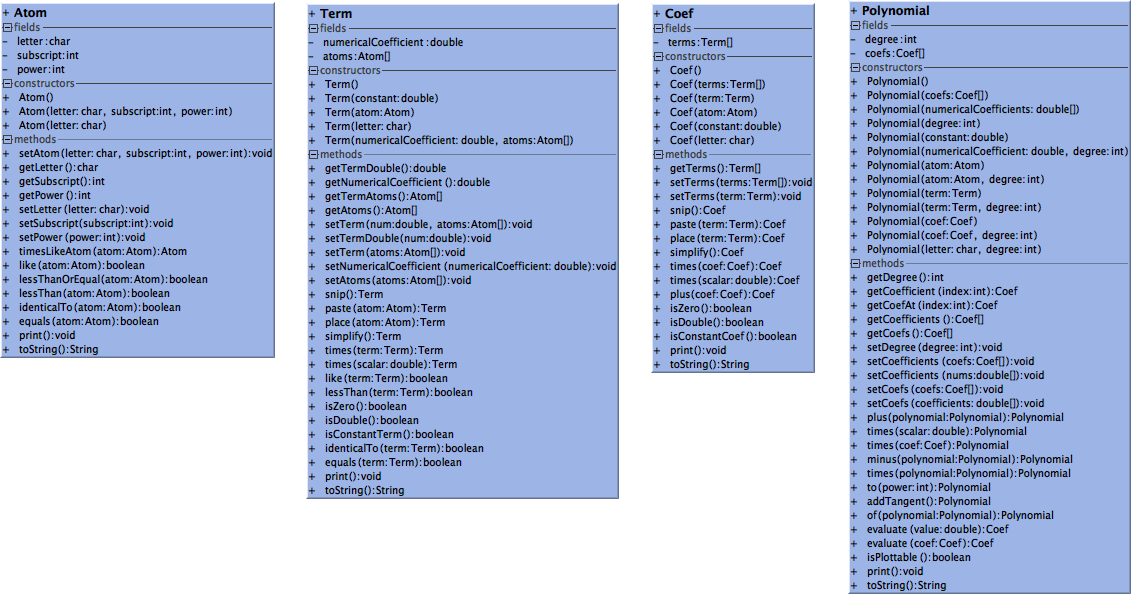
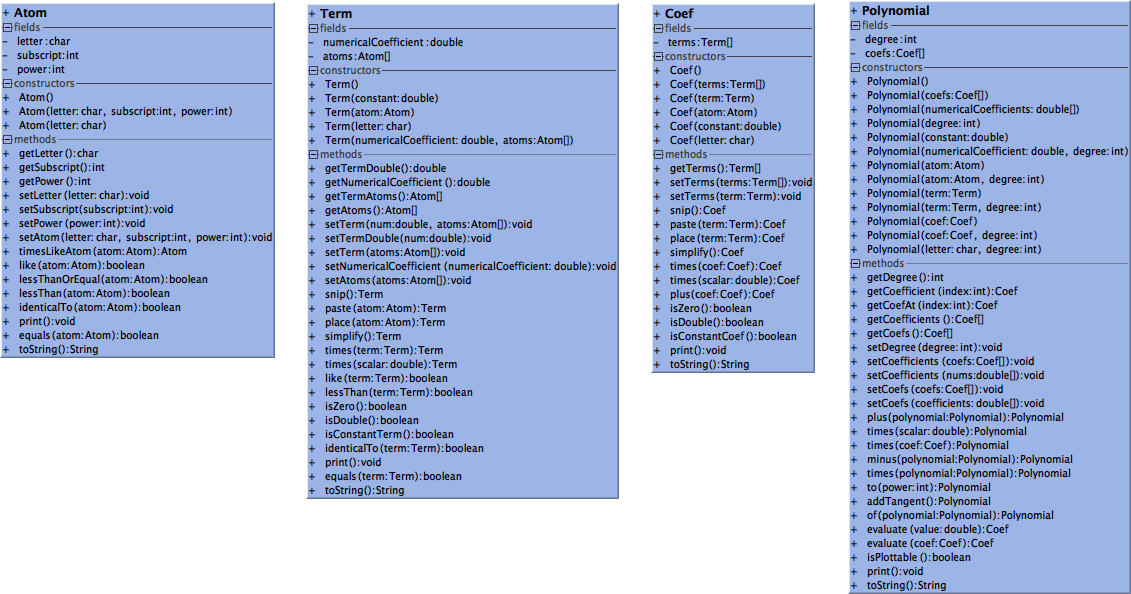
reordered methods and updated class diagrams

Changed region(s): [[0.0, 0.2424, 0.2476, 0.4242], [0.0, 0.5152, 0.1547, 0.5758], [0.2785, 0.7576, 0.4023, 0.8182]]

diff --git a/src/org/dalton/polyfun/Atom.java b/src/org/dalton/polyfun/Atom.java
@@ -40,19 +40,6 @@ public class Atom {
     }
 
     /**
-     * Create an Atom by entering a letter, a subscript, and a power
-     *
-     * @param letter    The letter
-     * @param subscript The subscript
-     * @param power     The power (i.e. exponent)
-     */
-    public void setAtom(char letter, int subscript, int power) {
-        this.letter = letter;
-        this.subscript = subscript;
-        this.power = power;
-    }
-
-    /**
      * Get letter
      *
      * @return
@@ -103,6 +90,19 @@ public class Atom {
      * @param power
      */
     public void setPower(int power) {
+        this.power = power;
+    }
+
+    /**
+     * Create an Atom by entering a letter, a subscript, and a power
+     *
+     * @param letter    The letter
+     * @param subscript The subscript
+     * @param power     The power (i.e. exponent)
+     */
+    public void setAtom(char letter, int subscript, int power) {
+        this.letter = letter;
+        this.subscript = subscript;
         this.power = power;
     }
 
@@ -177,17 +177,6 @@ public class Atom {
     }
 
     /**
-     * Checks equality between Atoms.
-     *
-     * @param atom - The org.dalton.polyfun.Atom to compare to this one.
-     * @return boolean
-     */
-    public boolean equals(Atom atom) {
-        return this.getLetter() == atom.getLetter() && this.getSubscript() == atom.getSubscript()
-                && this.getPower() == atom.getPower();
-    }
-
-    /**
      * Prints the Atom.
      *
      * @deprecated Use {@link #toString()} instead
@@ -206,6 +195,17 @@ public class Atom {
             System.out.print(this.letter + "_" + this.subscript + "^" + this.power);
         }
 
+    }
+
+    /**
+     * Checks equality between Atoms.
+     *
+     * @param atom - The org.dalton.polyfun.Atom to compare to this one.
+     * @return boolean
+     */
+    public boolean equals(Atom atom) {
+        return this.getLetter() == atom.getLetter() && this.getSubscript() == atom.getSubscript()
+                && this.getPower() == atom.getPower();
     }
 
     /**

diff --git a/src/org/dalton/polyfun/Term.java b/src/org/dalton/polyfun/Term.java
@@ -369,31 +369,6 @@ public class Term {
     }
 
     /**
-     * Check equality between two Terms.
-     *
-     * @param term Term to check
-     * @return boolean True if they are equal
-     */
-    public boolean equals(Term term) {
-        this.simplify();
-        term.simplify();
-
-        if (this.getAtoms().length == term.getAtoms().length) {
-
-            for (int i = 0; i < this.getAtoms().length; ++i) {
-                if (!this.getAtoms()[i].equals(term.getAtoms()[i])) {
-                    return false;
-                }
-            }
-
-            // If got this far, they must be equal
-            return true;
-        }
-
-        return false;
-    }
-
-    /**
      * @deprecated use {@link #toString()} instead.
      */
     @Deprecated
@@ -420,6 +395,31 @@ public class Term {
                 }
             }
         }
+    }
+
+    /**
+     * Check equality between two Terms.
+     *
+     * @param term Term to check
+     * @return boolean True if they are equal
+     */
+    public boolean equals(Term term) {
+        this.simplify();
+        term.simplify();
+
+        if (this.getAtoms().length == term.getAtoms().length) {
+
+            for (int i = 0; i < this.getAtoms().length; ++i) {
+                if (!this.getAtoms()[i].equals(term.getAtoms()[i])) {
+                    return false;
+                }
+            }
+
+            // If got this far, they must be equal
+            return true;
+        }
+
+        return false;
     }
 
     /**

diff --git a/README.md b/README.md
@@ -30,7 +30,7 @@ These changes were made to be backward compatible. In other words, old XClass co
 * Where a method looked for a non-zero value in an array, updated it from counting all the non-zero elements then returning true if count > 0, to instead return false at the first occurrence of a non-zero element.
 * Where a method returned a new object by declaring and instantiating on one line, and returning on the next line, changed to returning an anonymous object instantiating on the same line.
 * Added toString() methods and put deprecation warning for print() methods.
-* Added equals() methods and put deprecation warning on identicalTo() methods.
+* Added equals() methods to Atom and Term and put deprecation warning on identicalTo() methods.
 * Throughout the library, replaced use of deprecated methods with their newer counterparts.
 * Auto-reformatted code.
 * Added Junit tests
